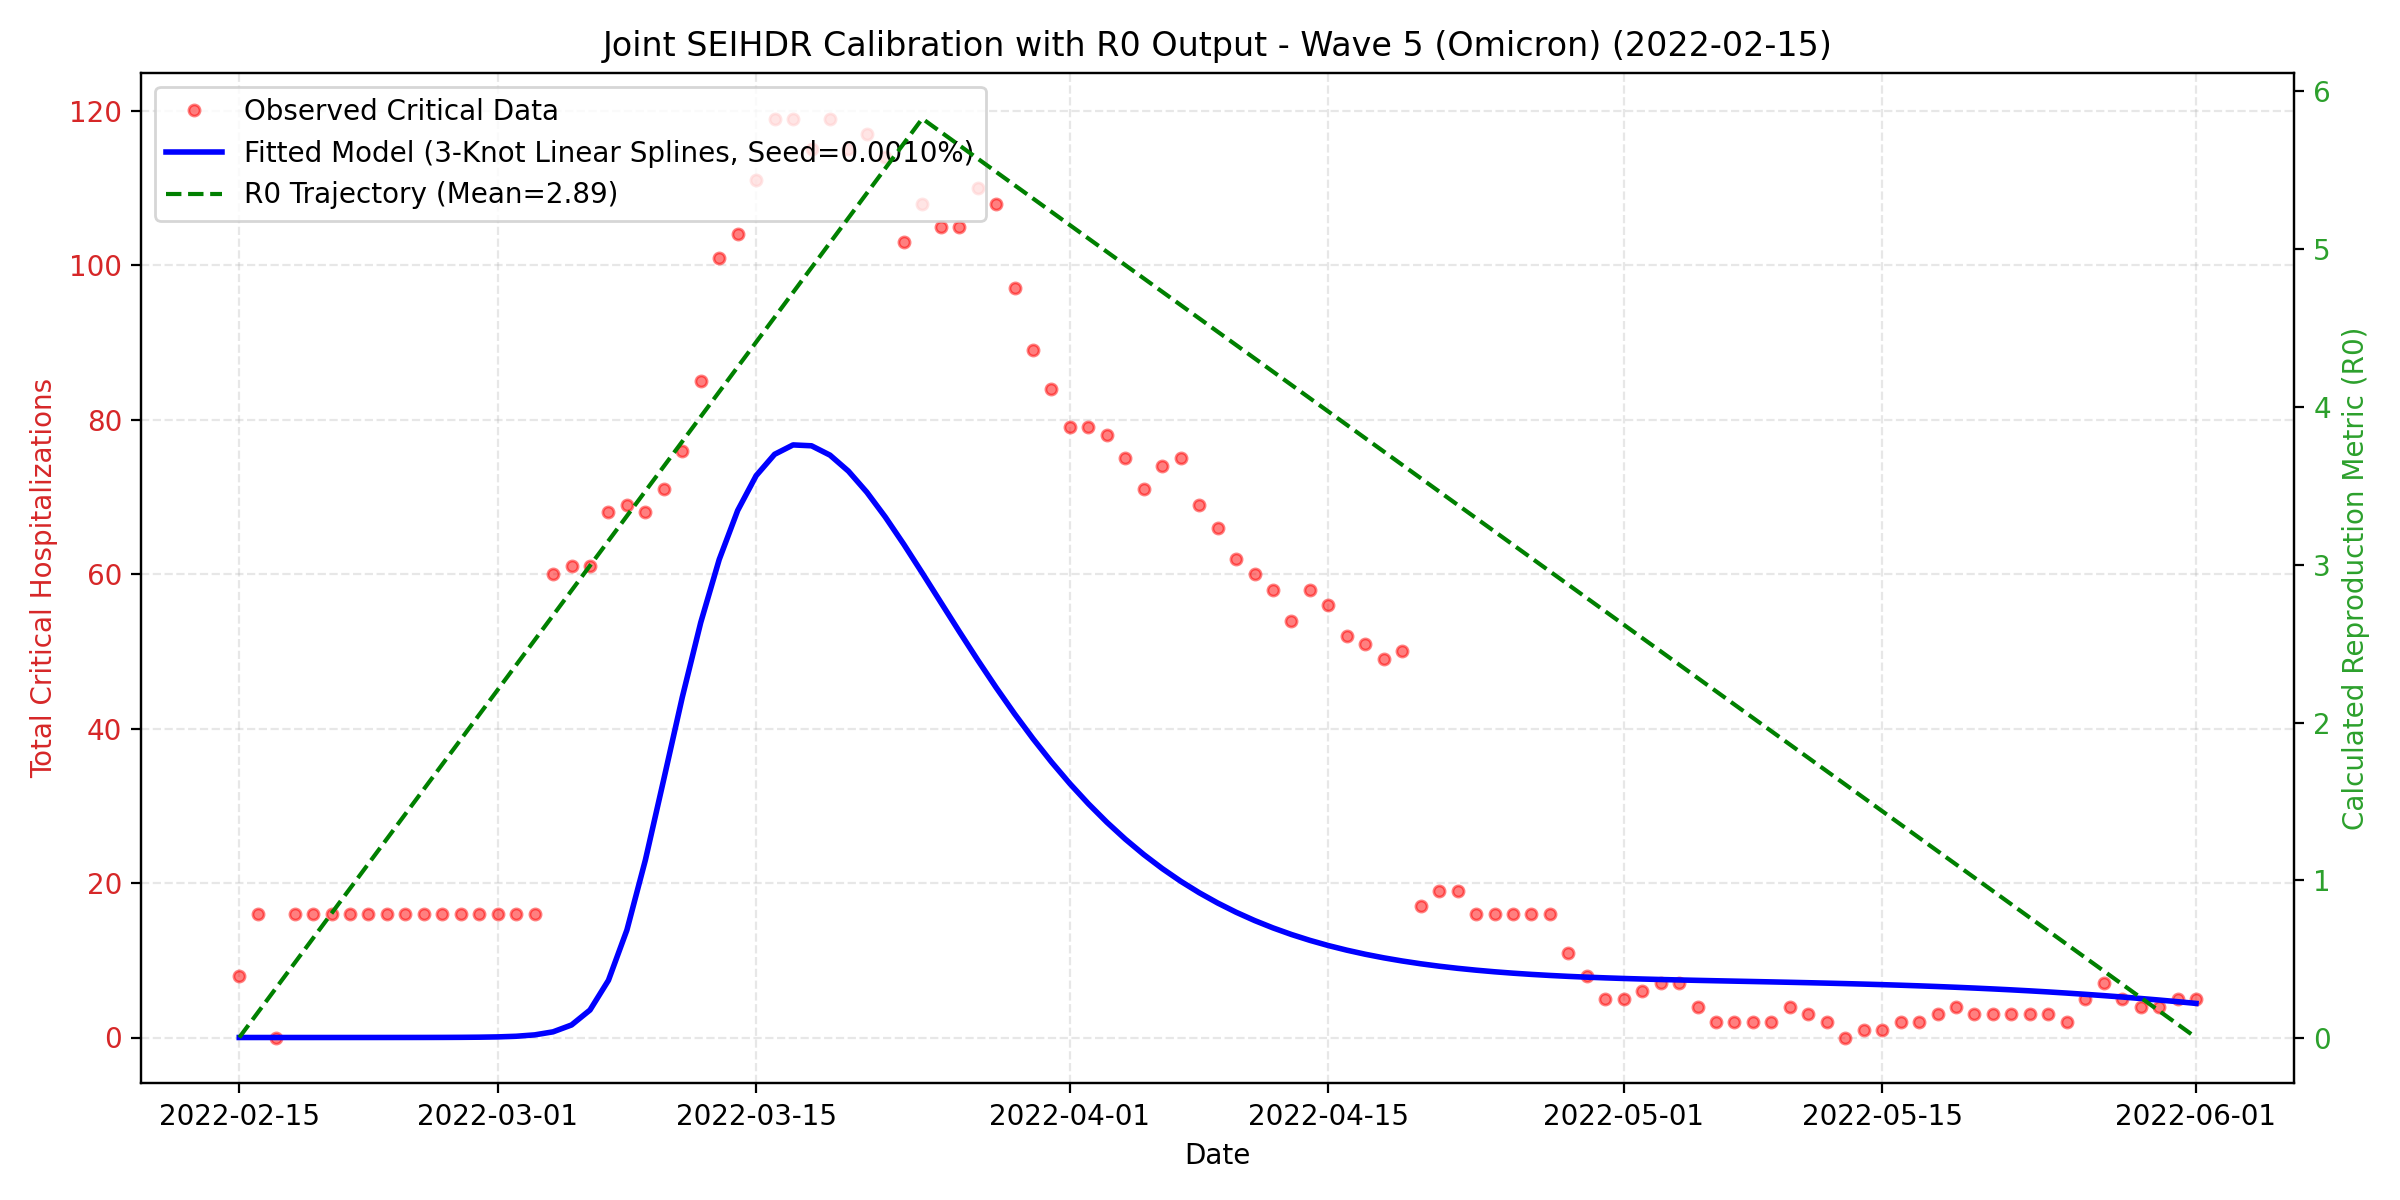
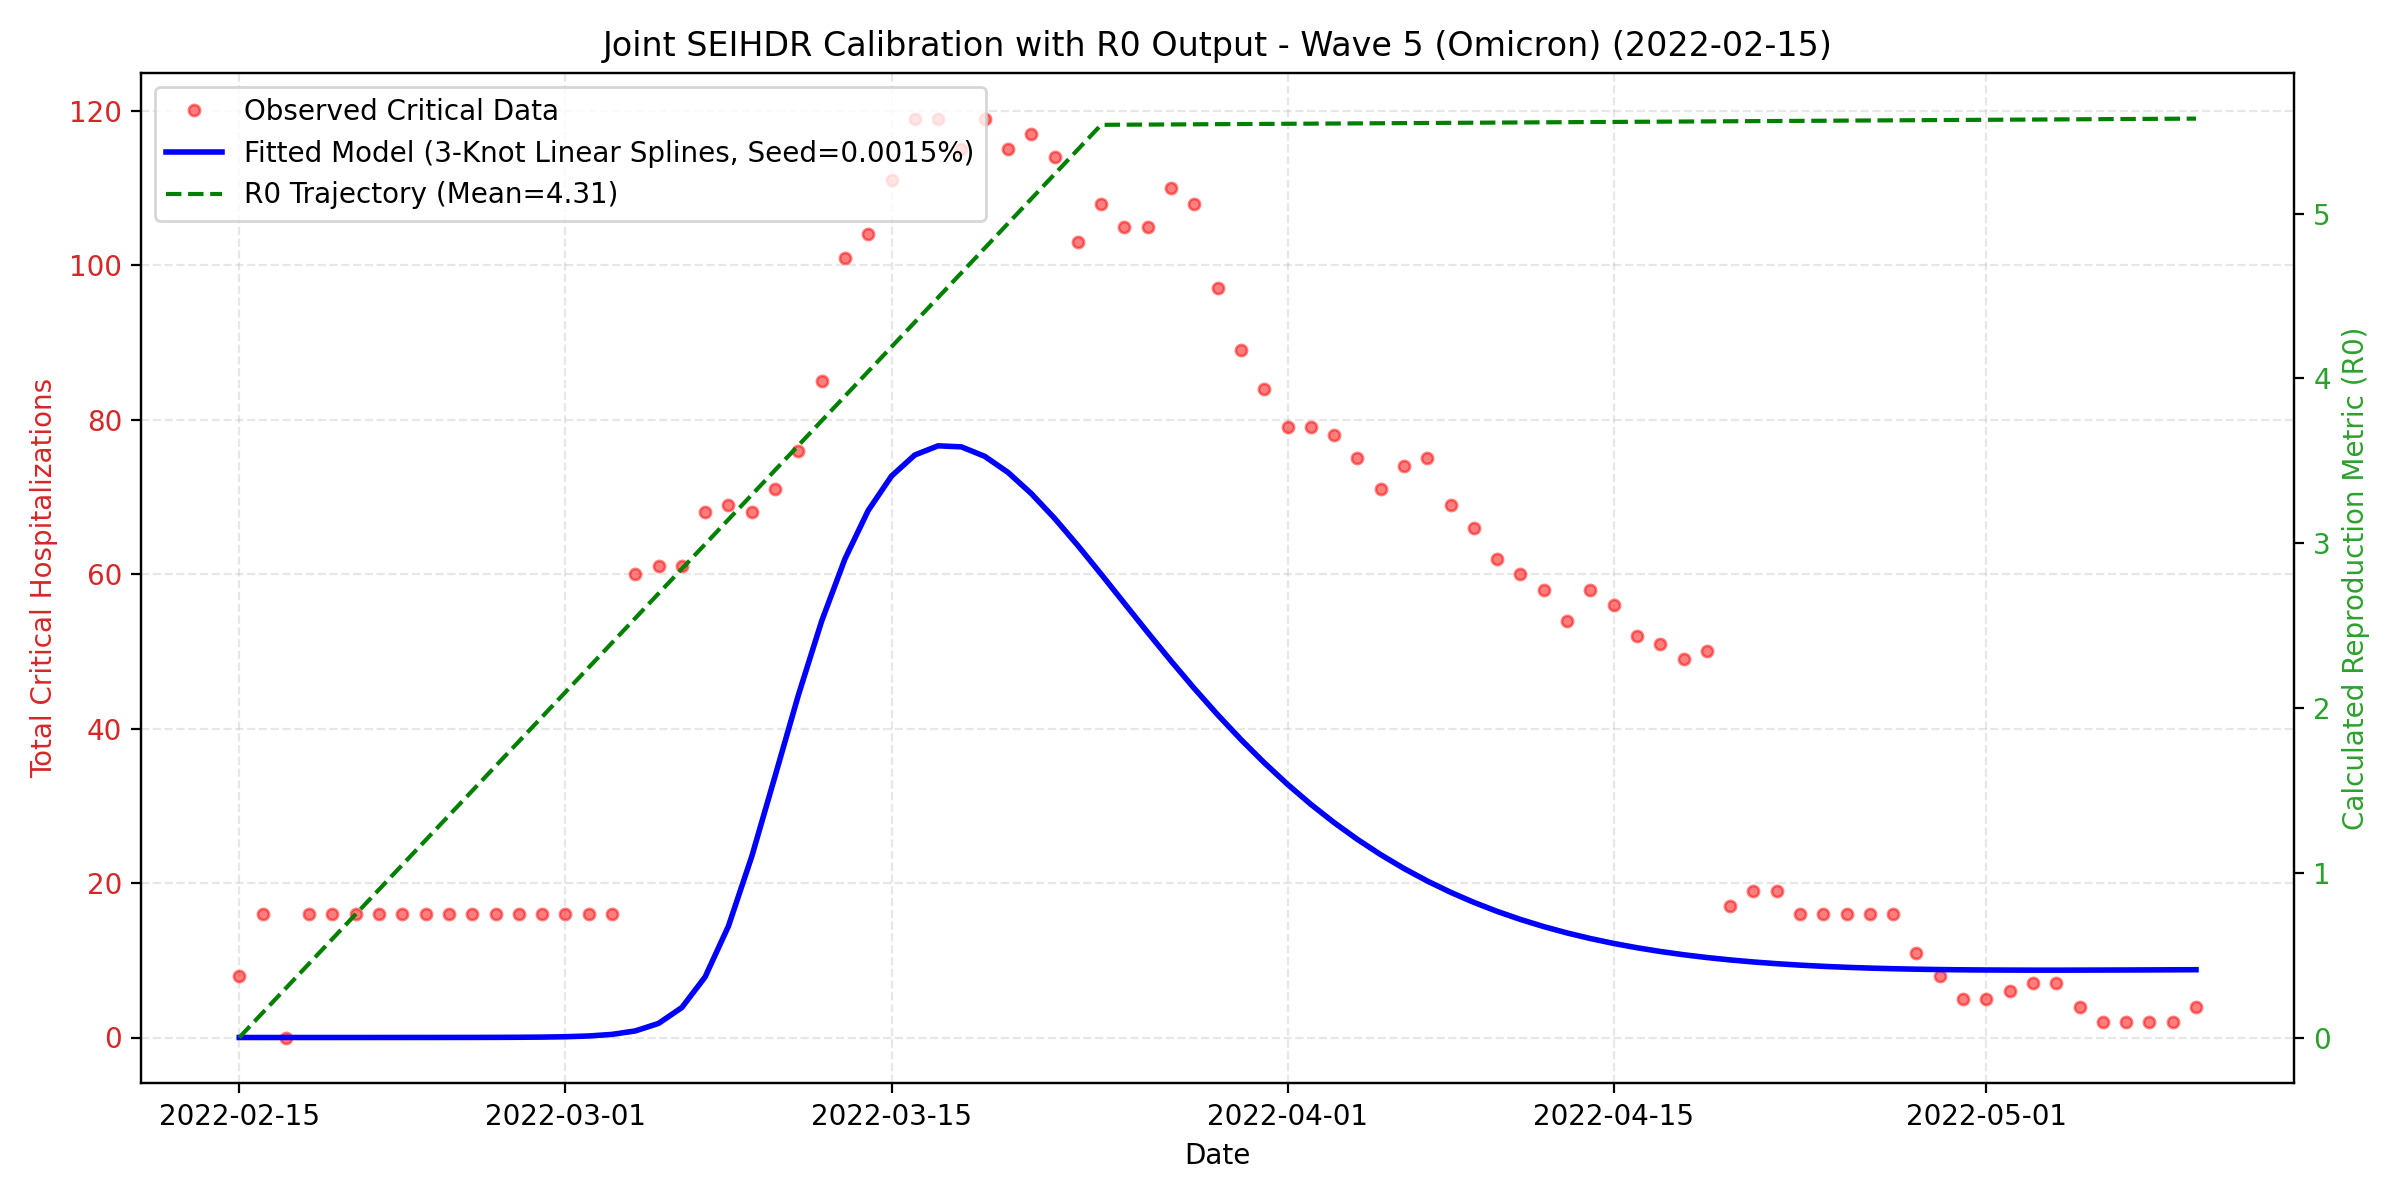
Added graphs of new end dates

diff --git a/model/fit.py b/model/fit.py
@@ -165,10 +165,10 @@ def main(argv=None):
         wave_title = "Wave 4 (Ancestral)"
         start_dates = ["2020-10-15", "2020-11-01", "2020-11-15", "2020-12-01"]
     else:
-        end_date = "2022-06-01"
+        end_date = "2022-05-10"
         model_params = OMICRON_PARAMS
         wave_title = "Wave 5 (Omicron)"
-        start_dates = ["2022-01-01", "2022-01-15", "2022-02-01", "2022-02-15"]
+        start_dates = ["2022-01-15", "2022-02-01", "2022-02-15"]
 
     plots_dir = Path(__file__).parent / "fitted_plots"
     plots_dir.mkdir(exist_ok=True)
